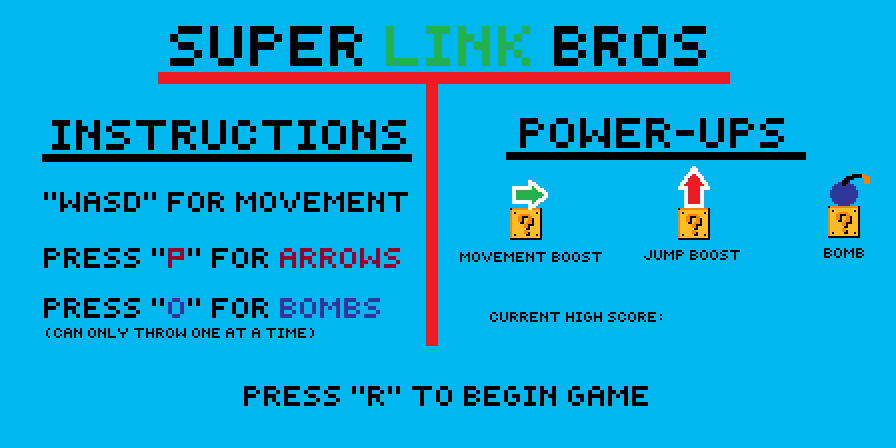
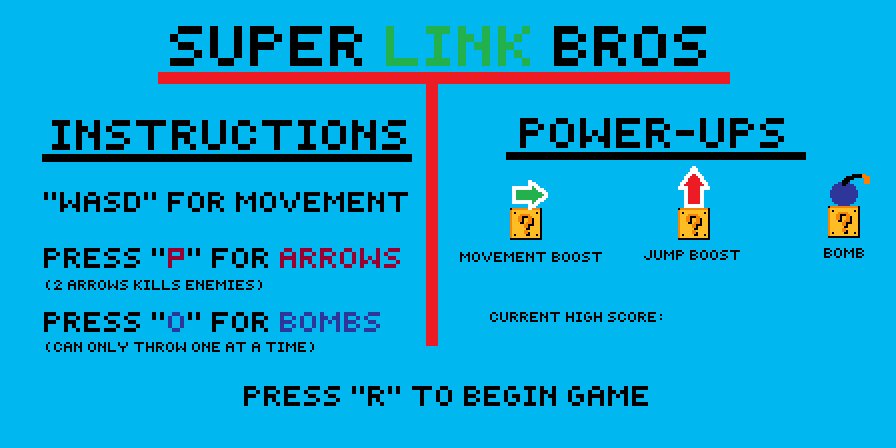
No more spamming arrows and better start screen

Changed region(s): [[0.0312, 0.625, 0.4375, 0.7812]]

diff --git a/main.py b/main.py
@@ -52,6 +52,7 @@ def restartApp(app):
 
     # Arrows
     app.arrows = list()
+    app.arrowTimer = 0
 
     # Bombs
     app.bombs = list()
@@ -171,7 +172,8 @@ def onKeyPress(app, key):
         app.link.isOnGround = False
         app.link.isJumping = True
     # Shoot arrows with 'p'
-    elif (key == 'p'):
+    elif (key == 'p' and app.arrowTimer > 10):
+        app.arrowTimer = 0
         app.arrows.append(Arrow(app))
         if (app.link.lookingRight):
             app.link.image = app.link.bowRight
@@ -207,6 +209,7 @@ def onStep(app):
 
         app.timer += 1
         app.checkEnemyTimer += 1
+        app.arrowTimer += 1
 
         # If Link's health is <= 0, game is over --> restarts game
         if (app.link.health <= 0):
@@ -270,7 +273,7 @@ def onStep(app):
         if (app.switchTimer):
             for enemy in app.enemies:
                 # 70% chance of moving toward Link, 30% of moving away
-                if (app.prob > 0.3):
+                if (app.prob > 0.2):
                     enemy.moveTowardLink(app, enemy.moveSpeed)
                 else:
                     enemy.moveAwayFromLink(app, enemy.moveSpeed)
@@ -336,8 +339,8 @@ def drawHighScore(app):
 
 # Draws current score that will appear top-right when playing the game
 def drawScore(app):
-    drawLabel('Score:', 550, 15, size=25, fill='black')
-    drawLabel(str(app.currentScore), 600, 16, size=25, fill='black', align='left')
+    drawLabel('Score:', 650, 15, size=25, fill='black')
+    drawLabel(str(app.currentScore), 700, 16, size=25, fill='black', align='left')
 
 # Draws arrows
 def drawArrows(app):
